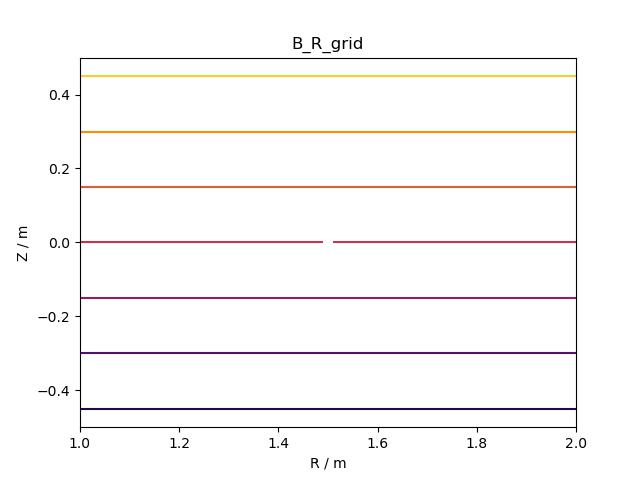
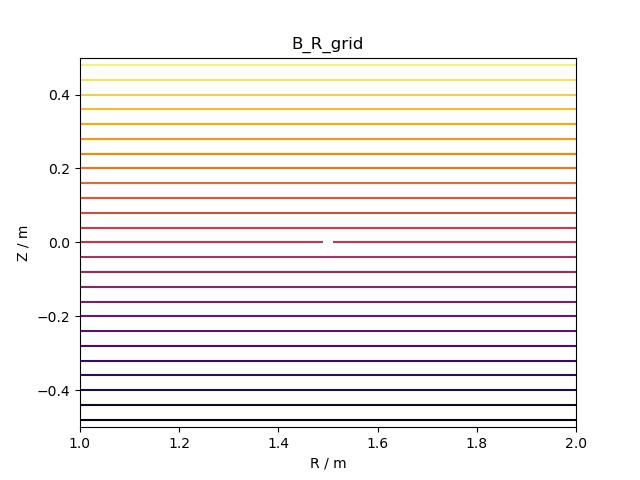
Cleaned up the graphs that are spat out

Changed region(s): [[0.125, 0.125, 0.9062, 0.5], [0.125, 0.5312, 0.9062, 0.875]]

diff --git a/PlasmaVarPlot.py b/PlasmaVarPlot.py
@@ -66,8 +66,10 @@ def equilcontourplot(GridToPlot, title, filename="NONE", showfig=False, savefig=
     data_R_coord,
     data_Z_coord,
     np.transpose(GridToPlot.reshape(len(data_R_coord), len(data_Z_coord))),
+    levels = 30,
     cmap="inferno",
     )
+    # plt.imshow(GridToPlot, cmap='hot', interpolation='nearest')
     plt.xlim(data_R_coord[0], data_R_coord[-1])
     plt.ylim(data_Z_coord[0], data_Z_coord[-1])
     plt.xlabel("R / m")
@@ -79,7 +81,7 @@ def equilcontourplot(GridToPlot, title, filename="NONE", showfig=False, savefig=
     plt.close()
     
     
-    
+
 equilcontourplot(B_R_grid, "B_R_grid")
 equilcontourplot(B_T_grid, "B_T_grid")
 
